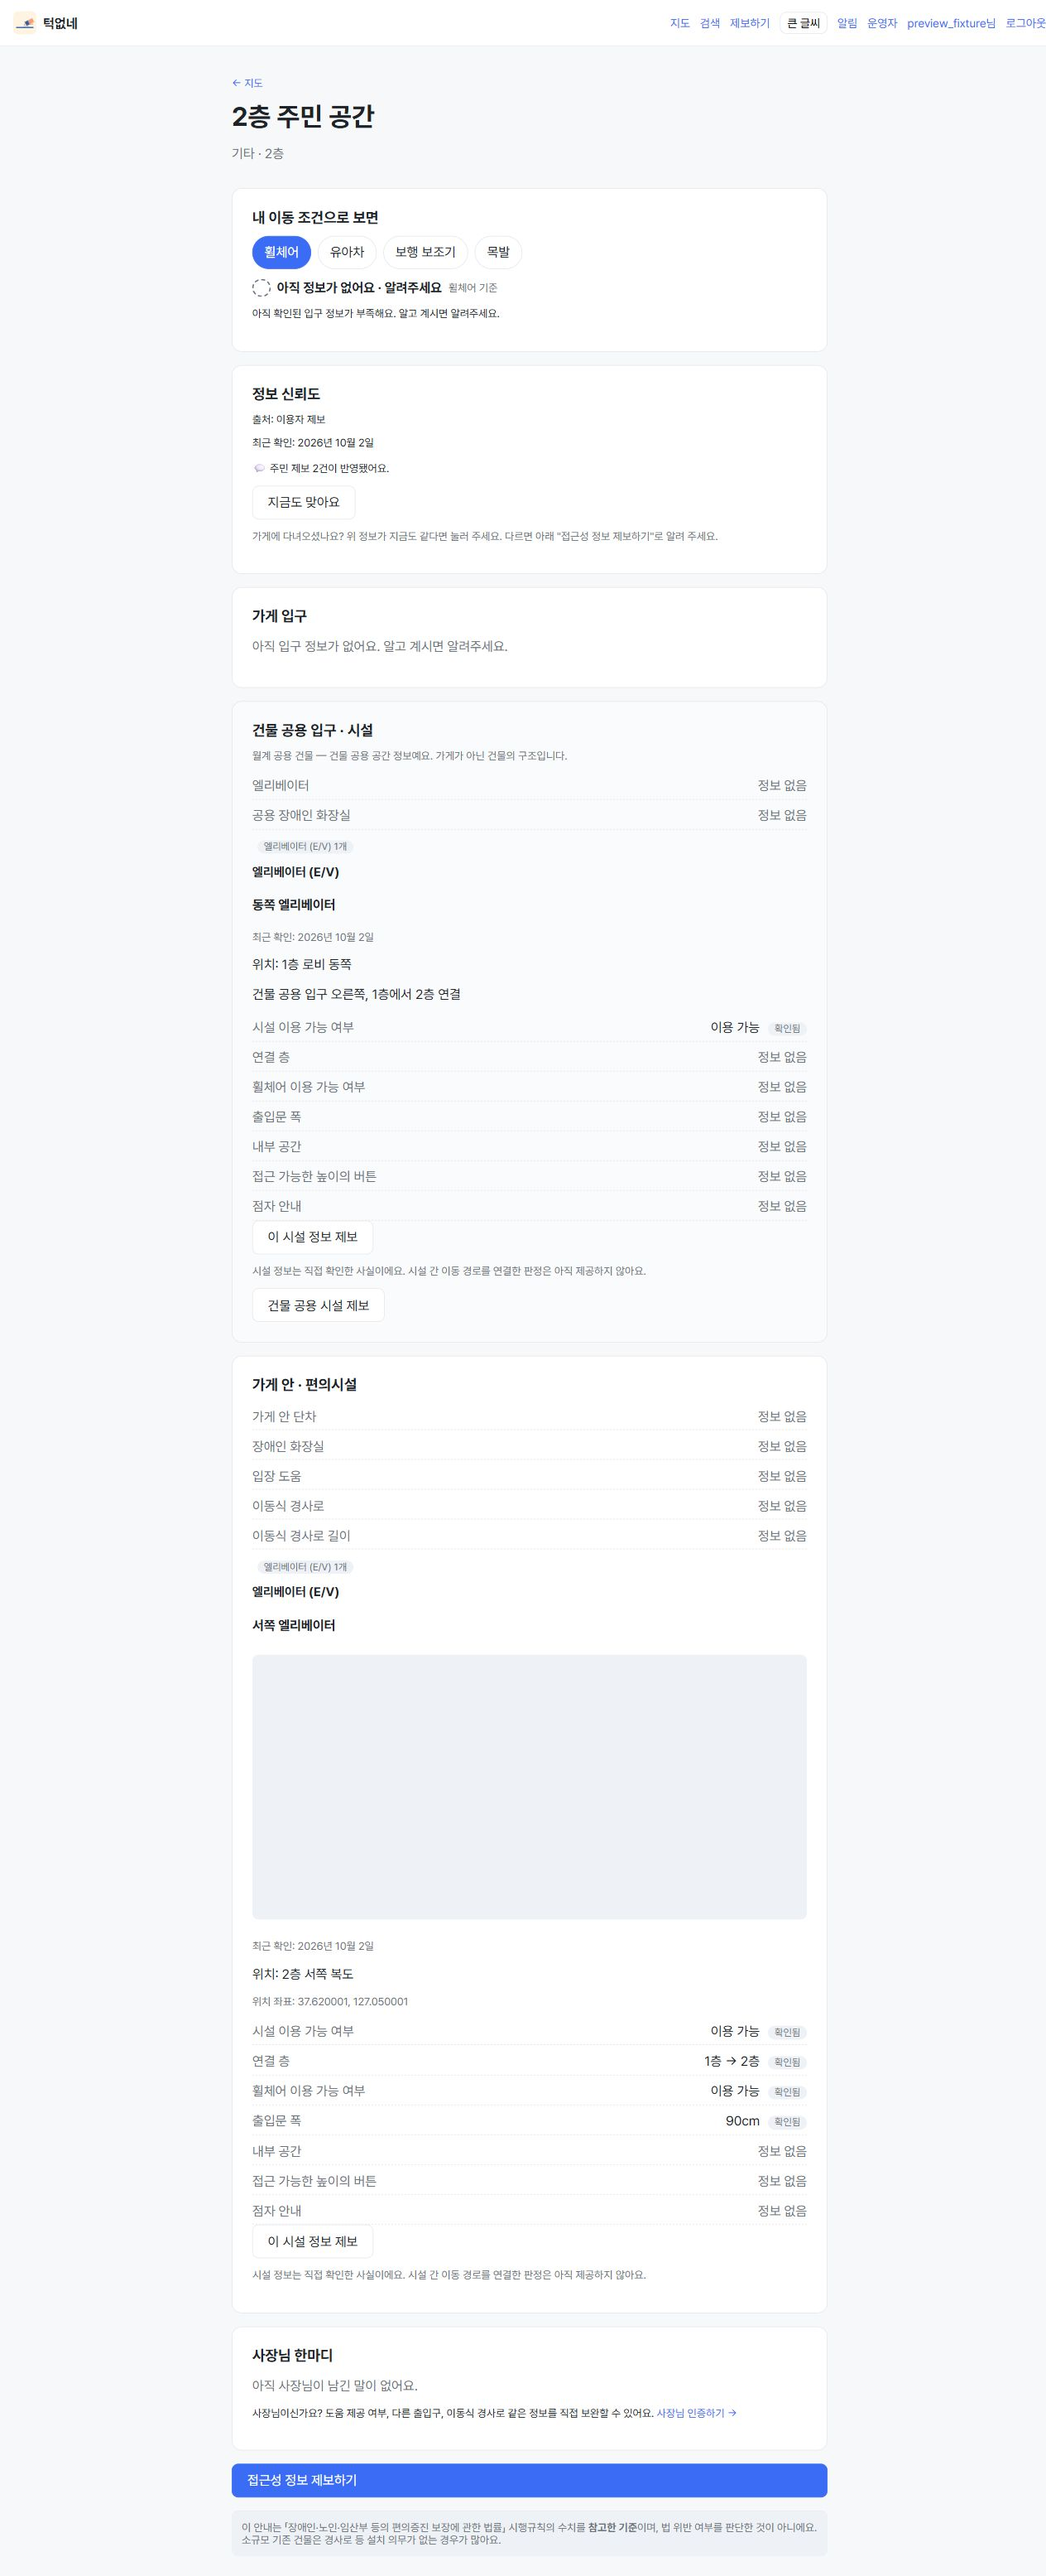
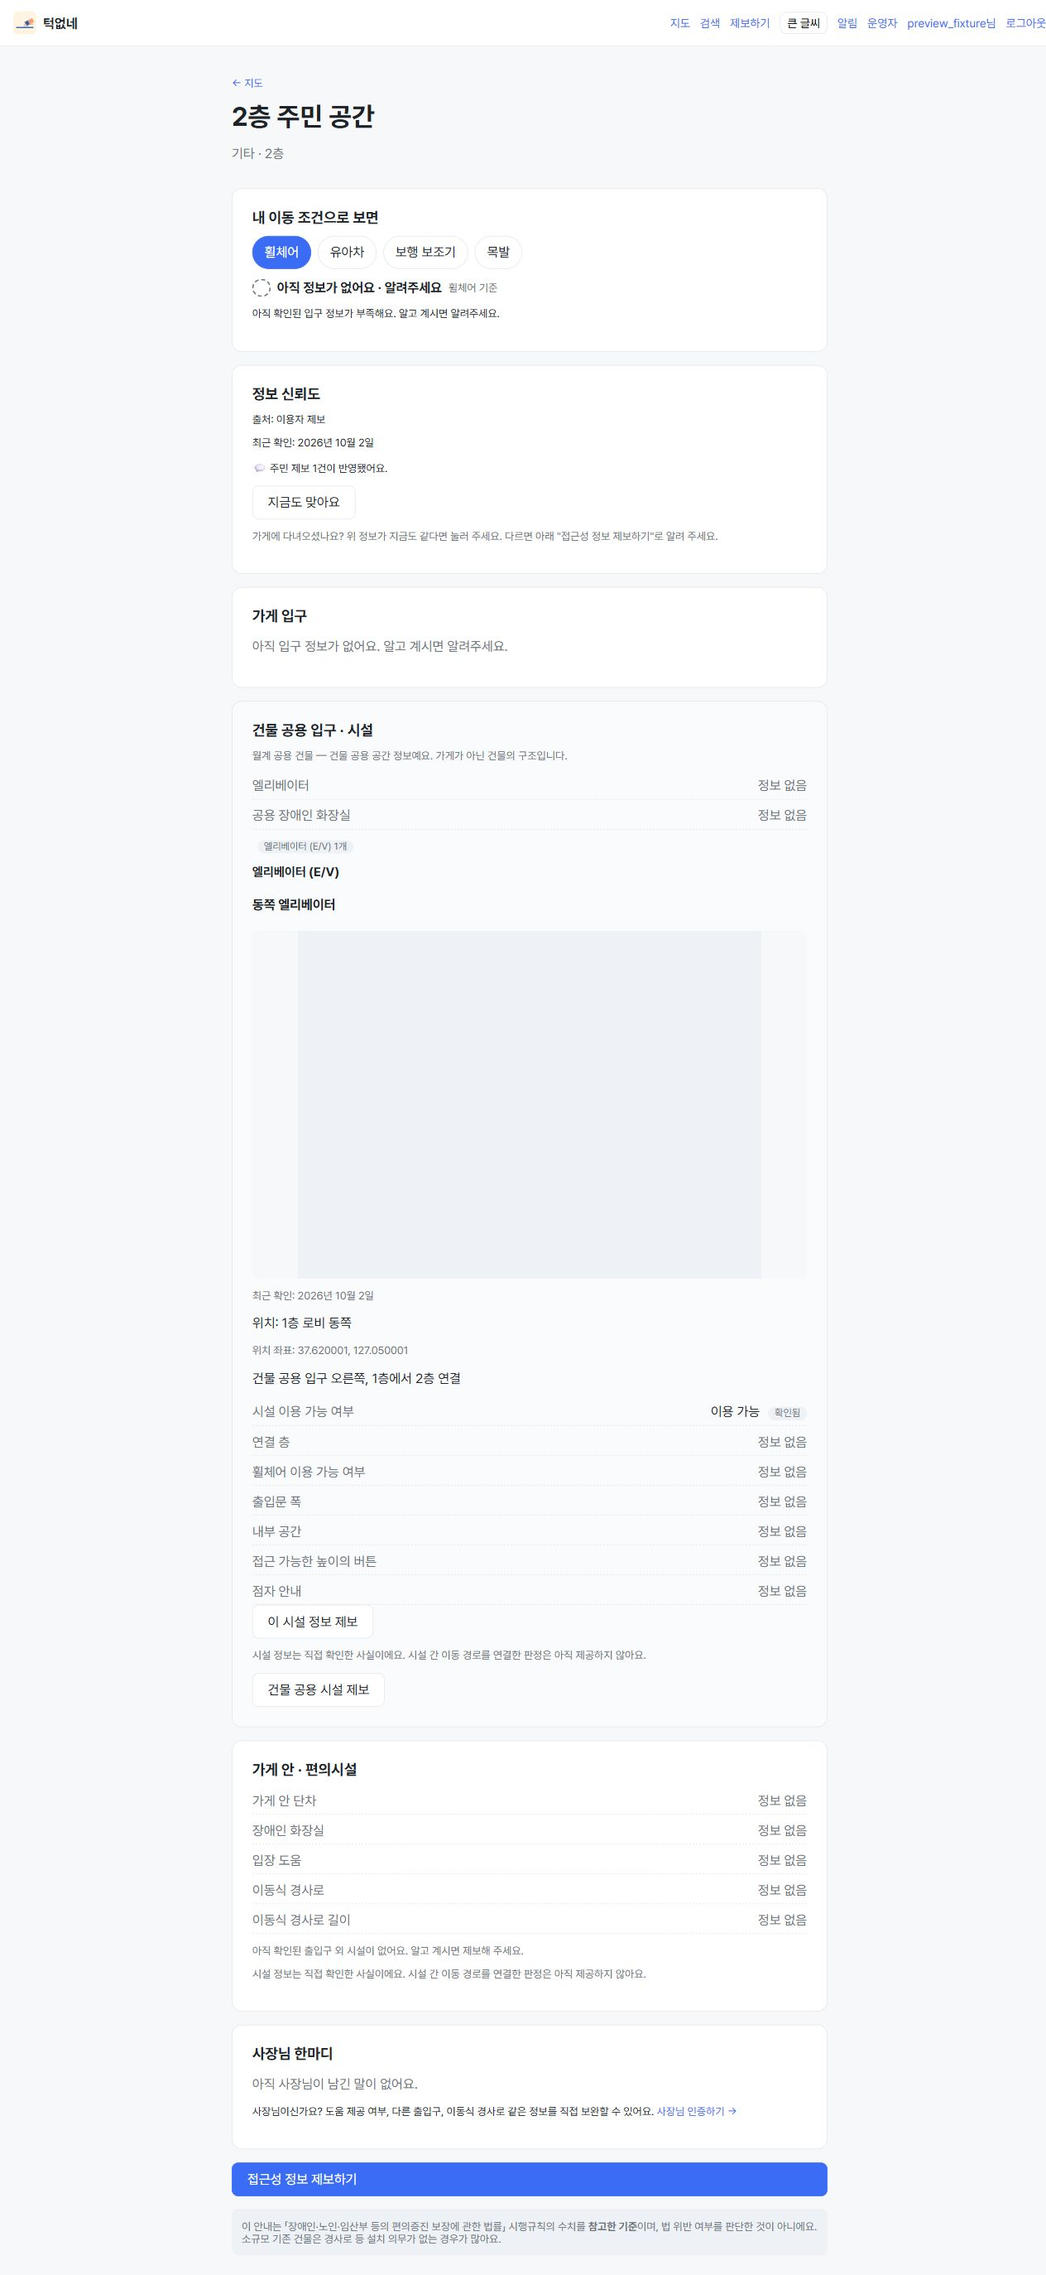
fix: 최신 사진 표시와 시설 제보 삭제 호환성 보완

diff --git a/places/templates/places/_facilities.html b/places/templates/places/_facilities.html
@@ -5,7 +5,7 @@
   {% for facility in group.list %}
   <section class="entrance" aria-label="{{ facility.name }}">
     <h4>{{ facility.name }}</h4>
-    {% if facility.photo %}<img class="entrance-photo" src="{{ facility.photo.url }}" alt="{{ facility.name }} 사진" loading="lazy">{% endif %}
+    {% if facility.photo %}<a href="{{ facility.photo.url }}" target="_blank" rel="noopener" title="사진 크게 보기"><img class="entrance-photo" src="{{ facility.photo.url }}" alt="{{ facility.name }} 사진 (누르면 크게 보기)" loading="lazy"></a>{% endif %}
     <p class="muted small">최근 확인: {{ facility.checked_at|date:"Y년 n월 j일" }}</p>
     {% if facility.location_text %}<p>위치: {{ facility.location_text }}</p>{% endif %}
     {% if facility.lat != None and facility.lng != None %}<p class="muted small">위치 좌표: {{ facility.lat }}, {{ facility.lng }}</p>{% endif %}

diff --git a/reports/test_facilities.py b/reports/test_facilities.py
@@ -256,6 +256,7 @@ class FacilityReportTests(TempMediaMixin, TestCase):
         self.assertContains(response, "엘리베이터 (E/V) 1개")
         self.assertContains(response, "ELEVATOR 시설")
         self.assertContains(response, "2층 복도 동쪽")
+        self.assertContains(response, f'href="{facility["photo_url"]}" target="_blank" rel="noopener" title="사진 크게 보기"')
         self.assertTrue(has_public_info(self.place))
         self.assertEqual(last_checked_at(self.place), report.observed_at)
 
@@ -281,6 +282,29 @@ class FacilityReportTests(TempMediaMixin, TestCase):
         approve_report(report, self.staff)
         approve_report(stale, self.staff)
         self.assertEqual(self.place.facilities.count(), 1)
+
+    def test_operator_can_delete_place_and_building_facility_reports_without_public_ghosts(self):
+        for ownership in ("PLACE", "BUILDING"):
+            with self.subTest(ownership=ownership):
+                self.client.force_login(self.user)
+                report = self.proposal(ownership=ownership)
+                verify_report(report, by=self.staff)
+                facility_id = report.facility_id
+                photo_name = report.photo.name
+                self.client.force_login(self.staff)
+                with self.captureOnCommitCallbacks(execute=True):
+                    response = self.client.post(reverse("ops:reports-delete"), {
+                        "ids": [report.pk], "confirm_step": "1", "confirm": "on",
+                    })
+                self.assertEqual(response.status_code, 302)
+                self.assertFalse(Report.objects.filter(pk=report.pk).exists())
+                self.assertFalse(AccessibilityValue.objects.filter(report_id=report.pk).exists())
+                self.assertFalse(report.photo.storage.exists(photo_name))
+                self.assertTrue(AccessFacility.objects.filter(pk=facility_id).exists())
+                data = self.client.get(f"/api/v1/places/{self.place.pk}/").json()
+                self.assertEqual(data["place"]["facilities"], [])
+                self.assertEqual(data["building"]["facilities"], [])
+                self.assertFalse(has_public_info(self.place))
 
     def test_operator_review_page_and_approval_use_existing_flow(self):
         report = self.proposal()
